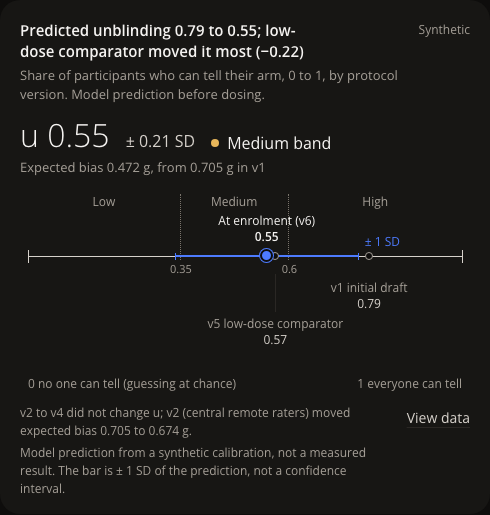
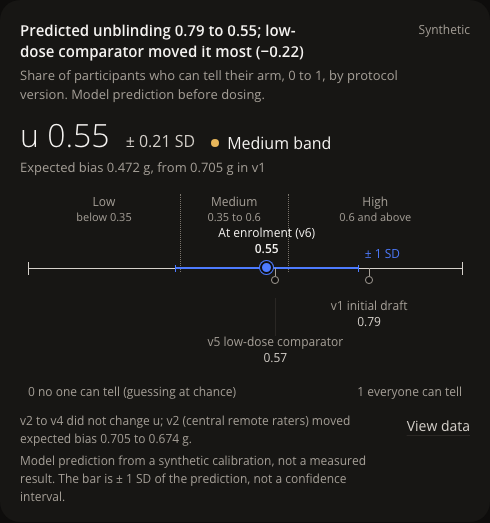
Predose fix round 1: V-1 tip overflow, V-4 trail row, V-5 risk column, V-14 focus ring
- risk-scale tips are display:none when closed and their left edge is clamped inside the figure (no
  horizontal scroll at 390).
- Trail dots sit on their own row under the line with a hairline tick, so v5 is visible next to the
  current value and v1 no longer reads as the SD cap; band words carry the cut-offs; 'v5'/'v1' at 390.
- Version history: Predicted u is the second column, not mono.
- 2px graphite focus ring on risk marks. After shots re-taken.

diff --git a/frontend/src/components/predose/UnblindingSphere.tsx b/frontend/src/components/predose/UnblindingSphere.tsx
@@ -119,7 +119,15 @@ function useWidth(ref: React.RefObject<HTMLElement>): number {
   return w;
 }
 
-function RiskLine({ points, nowLabel, compact }: { points: Point[]; nowLabel: string; compact: boolean }) {
+function RiskLine({ points, nowLabel, compact, width = 0 }: { points: Point[]; nowLabel: string; compact: boolean; width?: number }) {
+  // Tooltip box: fixed width, its left edge clamped so it stays inside the figure (no page overflow at 390).
+  const track = Math.max(0, width - 16);        // .rk-line has 8px side padding
+  const tipW = track > 0 ? Math.min(300, track) : 300;
+  const tipStyle = (u: number): CSSProperties => {
+    const x = clamp(u) * track;
+    const left = track > 0 ? Math.max(-x, Math.min(-tipW / 2, track - x - tipW)) : -tipW / 2;
+    return { width: `${tipW}px`, left: `${left}px` };
+  };
   const now = points[points.length - 1];
   // Trail: earlier versions that moved u, plus the first version. Same-value versions are footnoted.
   const trail = points.slice(0, -1).filter((p, i) => i === 0 || Math.abs(p.u - points[i - 1].u) >= MOVE_MIN);
@@ -128,7 +136,7 @@ function RiskLine({ points, nowLabel, compact }: { points: Point[]; nowLabel: st
   const maxLane = Math.max(-1, ...lanes);
   const lo = now.sd !== null ? clamp(now.u - now.sd) : null;
   const hi = now.sd !== null ? clamp(now.u + now.sd) : null;
-  const below = trailShown.length ? (maxLane + 1) * LANE_STEP + (compact ? 0 : 16) : 0;
+  const below = trailShown.length ? (compact ? (maxLane + 1) * 22 : (maxLane + 1) * LANE_STEP + 16) : 0;
   const style = { "--rk-below": `${below}px` } as CSSProperties;
   const pct = (u: number) => `${clamp(u) * 100}%`;
   const sdLabelLeft = hi !== null && hi > 0.85;
@@ -137,15 +145,17 @@ function RiskLine({ points, nowLabel, compact }: { points: Point[]; nowLabel: st
     <div className="rk-line" style={style}>
       {/* bands: cut-off ticks and words above the line */}
       <div className="rk-bands" aria-hidden="true">
-        <span className="rk-band" style={{ left: 0, width: pct(CUT_MEDIUM) }}>Low</span>
-        <span className="rk-band" style={{ left: pct(CUT_MEDIUM), width: pct(CUT_HIGH - CUT_MEDIUM) }}>Medium</span>
-        <span className="rk-band" style={{ left: pct(CUT_HIGH), width: pct(1 - CUT_HIGH) }}>High</span>
+        <span className="rk-band" style={{ left: 0, width: pct(CUT_MEDIUM) }}>
+          Low<span className="rk-band__range num">below {formatNumber(CUT_MEDIUM)}</span></span>
+        <span className="rk-band" style={{ left: pct(CUT_MEDIUM), width: pct(CUT_HIGH - CUT_MEDIUM) }}>
+          Medium<span className="rk-band__range num">{formatNumber(CUT_MEDIUM)} to {formatNumber(CUT_HIGH)}</span></span>
+        <span className="rk-band" style={{ left: pct(CUT_HIGH), width: pct(1 - CUT_HIGH) }}>
+          High<span className="rk-band__range num">{formatNumber(CUT_HIGH)} and above</span></span>
       </div>
       <div className="rk-track">
         <span className="rk-axis" />
         {[0, CUT_MEDIUM, CUT_HIGH, 1].map((c) => (
           <span key={c} className={`rk-cut${c === 0 || c === 1 ? " rk-cut--end" : ""}`} style={{ left: pct(c) }} aria-hidden="true">
-            {c !== 0 && c !== 1 ? <span className="rk-cut__num num">{formatNumber(c)}</span> : null}
           </span>
         ))}
         {lo !== null && hi !== null ? (
@@ -156,24 +166,24 @@ function RiskLine({ points, nowLabel, compact }: { points: Point[]; nowLabel: st
           </>
         ) : null}
         {trailShown.map((p, i) => {
-          const n = points.indexOf(p) + 1;
           return (
             <span key={p.version} className="rk-pt" style={{ left: pct(p.u) }} tabIndex={0}
               aria-label={pointSentence(p)}>
               <span className="rk-pt__dot" />
-              {lanes[i] > 0 && !compact ? (
+              <span className="rk-pt__tick" />
+              {lanes[i] > 0 ? (
                 <span className="rk-pt__stem" style={{ height: `${lanes[i] * LANE_STEP + 2}px` }} />
               ) : null}
               <span className={`rk-l rk-l--trail${edge(p.u)}`} aria-hidden="true"
                 style={{ "--rk-off": `${lanes[i] * LANE_STEP}px` } as CSSProperties}>
-                {compact ? <span className="rk-l__num num">{n}</span> : (
+                {compact ? <span className="rk-l__num num">v{p.version}</span> : (
                   <>
                     <span className="rk-l__text">v{p.version} {p.change}</span>
                     <span className="rk-l__val num">{f2(p.u)}</span>
                   </>
                 )}
               </span>
-              <span className="rk-tip" role="tooltip">{pointSentence(p)}</span>
+              <span className="rk-tip" role="tooltip" style={tipStyle(p.u)}>{pointSentence(p)}</span>
             </span>
           );
         })}
@@ -183,7 +193,7 @@ function RiskLine({ points, nowLabel, compact }: { points: Point[]; nowLabel: st
             <span className="rk-l__text">{nowLabel}</span>
             <span className="rk-l__val num">{f2(now.u)}</span>
           </span>
-          <span className="rk-tip" role="tooltip">{pointSentence(now)}</span>
+          <span className="rk-tip" role="tooltip" style={tipStyle(now.u)}>{pointSentence(now)}</span>
         </span>
       </div>
       <div className="rk-ends" aria-hidden="true">
@@ -297,14 +307,14 @@ export function RiskCard({ risk, baseline, atEnrolment, history, latestVersion =
         footnotes={
           <>
             {compact && trailForList.length > 1 ? (
-              <ol className="rk-list">
+              <ul className="rk-list">
                 {trailForList.map((p) => (
-                  <li key={p.version} value={points.indexOf(p) + 1}>
+                  <li key={p.version}>
                     <span>v{p.version} {p.change}{p === now ? ` (${nowLabel.split(" (")[0].toLowerCase()})` : ""}</span>
                     <span className="num">{f2(p.u)}</span>
                   </li>
                 ))}
-              </ol>
+              </ul>
             ) : null}
             {stillText ? <p>{stillText}</p> : null}
             <p>
@@ -326,7 +336,7 @@ export function RiskCard({ risk, baseline, atEnrolment, history, latestVersion =
             </span>
           ) : null}
         </div>
-        <RiskLine points={points} nowLabel={nowLabel} compact={compact} />
+        <RiskLine points={points} nowLabel={nowLabel} compact={compact} width={width} />
         {frozen && Math.abs(frozen.u - now.u) >= MOVE_MIN ? (
           <p className="rk-frozen num">
             At enrolment u was {f2(frozen.u)} ({bandWord(frozen.band)} band); later amendments do not change that value.

diff --git a/frontend/src/styles/risk.css b/frontend/src/styles/risk.css
@@ -19,24 +19,22 @@
 
 /* ---------------------------------------------------------------- the line */
 .rk-line { display: flex; flex-direction: column; gap: 0; padding: 0 8px; min-width: 0; }
-.rk-bands { position: relative; height: 22px; }
+.rk-bands { position: relative; height: 34px; }
 .rk-band {
   position: absolute; top: 0; text-align: center; overflow: hidden; white-space: nowrap; text-overflow: clip;
+  display: flex; flex-direction: column; align-items: center;
   font: 400 12px/1.4 var(--font-body); color: var(--color-smoke);
 }
-.rk-track { position: relative; height: calc(64px + var(--rk-below, 0px)); }
+.rk-band__range { font-size: 11px; line-height: 1.3; }
+.rk-track { position: relative; height: calc(60px + var(--rk-below, 0px)); }
 .rk-axis {
   position: absolute; left: 0; right: 0; top: 40px; height: 1px; background: var(--color-graphite);
 }
 .rk-cut {
-  position: absolute; top: -22px; height: 66px; width: 0;
+  position: absolute; top: -34px; height: 78px; width: 0;
   border-left: 1px dotted var(--color-ash, var(--color-smoke));
 }
 .rk-cut--end { top: 34px; height: 13px; border-left: 1px solid var(--color-graphite); }
-.rk-cut__num {
-  position: absolute; top: 68px; left: 0; transform: translateX(-50%);
-  font: 400 11px/1.3 var(--font-body); color: var(--color-smoke); white-space: nowrap;
-}
 .rk-sd {
   position: absolute; top: 37px; height: 7px; box-sizing: border-box;
   border-left: 1.5px solid var(--color-spark-violet); border-right: 1.5px solid var(--color-spark-violet);
@@ -58,15 +56,18 @@
   left: -6.5px; top: -6.5px; width: 13px; height: 13px; border: 2px solid var(--color-eggshell);
   background: var(--color-spark-violet); box-shadow: 0 0 0 1px var(--color-spark-violet);
 }
-.rk-pt:focus-visible .rk-pt__dot { box-shadow: 0 0 0 2px var(--color-eggshell), 0 0 0 4px var(--color-ink); }
-.rk-pt__stem { position: absolute; left: -0.5px; top: 18px; width: 1px; background: var(--color-stone); }
+.rk-pt:focus-visible .rk-pt__dot { outline: 2px solid var(--color-graphite); outline-offset: 2px; }
+.rk-pt__stem { position: absolute; left: -0.5px; top: 30px; width: 1px; background: var(--color-stone); }
+/* trail dots sit on their own row 12px under the line, tied to the scale by a hairline tick */
+.rk-pt:not(.rk-pt--now) .rk-pt__dot { top: 8px; }
+.rk-pt__tick { position: absolute; left: -0.5px; top: 0; height: 8px; width: 1px; background: var(--color-smoke); }
 
 .rk-l {
   --rk-tx: -50%;
   position: absolute; left: 0; display: flex; flex-direction: column; align-items: center; white-space: nowrap;
   font: 400 12px/1.35 var(--font-body); color: var(--color-graphite); pointer-events: none;
 }
-.rk-l--trail { top: calc(24px + var(--rk-off, 0px)); transform: translateX(var(--rk-tx)); }
+.rk-l--trail { top: calc(30px + var(--rk-off, 0px)); transform: translateX(var(--rk-tx)); }
 .rk-l--now { bottom: 10px; transform: translateX(var(--rk-tx)); color: var(--color-ink); }
 .rk-l--now .rk-l__val { font-weight: 600; }
 .rk-l--start { --rk-tx: -8px; align-items: flex-start; }
@@ -75,18 +76,18 @@
 .rk-l--now .rk-l__text { color: var(--color-ink); }
 .rk-l__val { font-variant-numeric: tabular-nums; }
 .rk-l__num { font: 600 11px/1 var(--font-body); color: var(--color-smoke); }
-.rk--compact .rk-l--trail { top: calc(24px + var(--rk-off, 0px)); }
+.rk--compact .rk-l--trail { top: calc(20px + var(--rk-off, 0px)); }
 
 /* tooltip in words: hover or focus (tap on touch), closes on blur or scroll */
 .rk-tip {
-  position: absolute; bottom: 16px; left: 0; transform: translateX(-50%); z-index: 3;
-  width: max-content; max-width: min(300px, 80vw); white-space: normal;
+  position: absolute; bottom: 16px; left: 0; z-index: 3; box-sizing: border-box;
+  width: 300px; white-space: normal; display: none;
   padding: var(--space-2) var(--space-3); border: 1px solid var(--color-stone); border-radius: 6px;
   background: var(--color-eggshell); color: var(--color-ink); font: 400 13px/1.45 var(--font-body);
   font-variant-numeric: tabular-nums; box-shadow: 0 4px 16px rgb(0 0 0 / 0.08);
-  opacity: 0; visibility: hidden; pointer-events: none;
+  pointer-events: none;
 }
-.rk-pt:hover .rk-tip, .rk-pt:focus .rk-tip { opacity: 1; visibility: visible; }
+.rk-pt:hover .rk-tip, .rk-pt:focus .rk-tip { display: block; }
 .rk-pt:hover .rk-l, .rk-pt:focus .rk-l { visibility: hidden; }
 
 .rk-ends {
@@ -98,10 +99,8 @@
 .rk-frozen { margin: var(--space-3) 0 0; font: 400 13px/1.5 var(--font-body); color: var(--color-graphite); }
 
 /* phone: numbered dots on the line, the list in the footnotes */
-.rk-list { margin: 0 0 var(--space-2); padding-left: 1.6em; display: flex; flex-direction: column; gap: 2px; }
+.rk-list { margin: 0 0 var(--space-2); padding-left: 0; list-style: none; display: flex; flex-direction: column; gap: 2px; }
 .rk-list li { font-variant-numeric: tabular-nums; }
 .rk-list li > span + span { margin-left: var(--space-2); }
 
-@media (prefers-reduced-motion: no-preference) {
-  .rk-tip { transition: opacity 120ms ease-out; }
-}
+

diff --git a/frontend/src/components/predose/BlindingSection.tsx b/frontend/src/components/predose/BlindingSection.tsx
@@ -50,6 +50,8 @@ export function VersionHistory({ versions, history }: { versions: ProtocolVersio
   const withRisk = uOf.size > 0;
   const rows = versions.slice().reverse().map((v) => [
     <span className="num">v{v.version}</span>,
+    // Predicted u sits second so it stays on screen at phone width.
+    ...(withRisk ? [<span className="num">{typeof uOf.get(v.version) === "number" ? (uOf.get(v.version) as number).toFixed(2) : "n/a"}</span>] : []),
     <span className="num">{formatDay(v.day)}</span>,
     v.why,
     v.changes.length === 0 ? <span className="c-ash">none</span> : (
@@ -58,11 +60,10 @@ export function VersionHistory({ versions, history }: { versions: ProtocolVersio
         <span className="vhist__first" title={v.changes.join("\n")}>{v.changes[0].replace(/^[+-]/, "")}</span>
       </span>
     ),
-    ...(withRisk ? [<span className="num">{typeof uOf.get(v.version) === "number" ? (uOf.get(v.version) as number).toFixed(2) : "n/a"}</span>] : []),
   ]);
   return (
-    <LedgerTable title="Version history" columns={[{ label: "Version", mono: true }, { label: "Day", mono: true }, "Why", "Changes",
-      ...(withRisk ? [{ label: "Predicted u", align: "right" as const, mono: true }] : [])]}
+    <LedgerTable title="Version history" columns={[{ label: "Version", mono: true },
+      ...(withRisk ? [{ label: "Predicted u", align: "right" as const }] : []), { label: "Day", mono: true }, "Why", "Changes"]}
       rows={rows} empty="No versions yet." maxHeight={360} />
   );
 }
